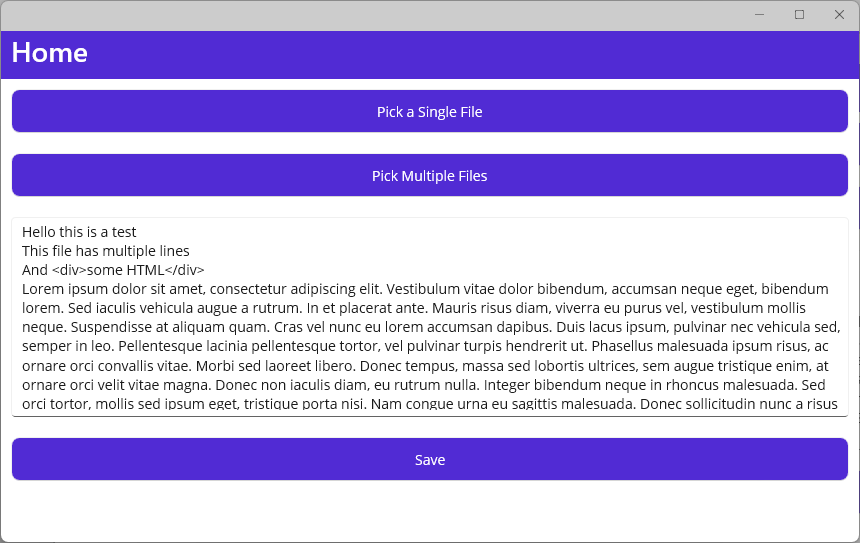
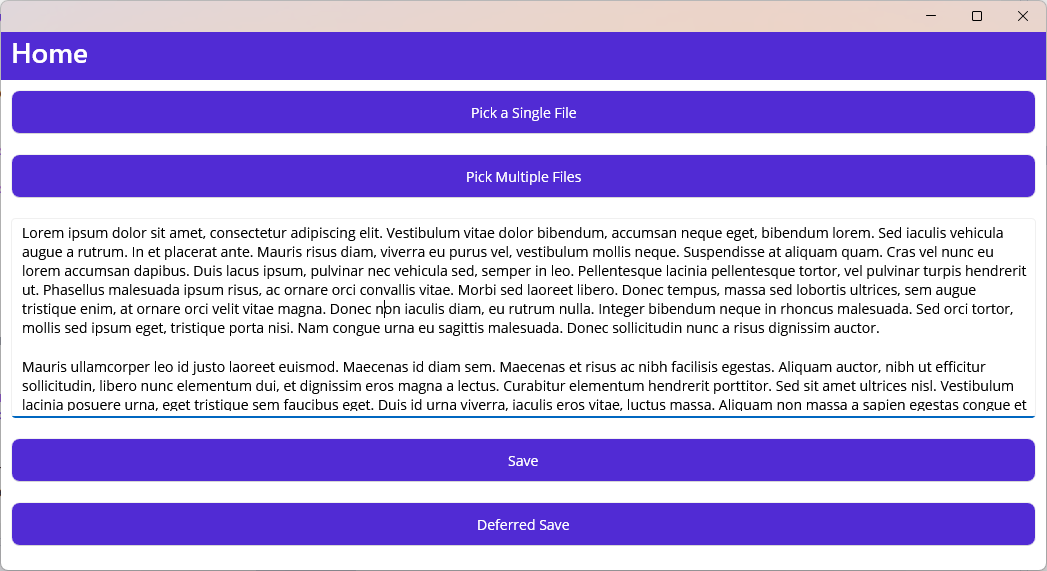
Added DeferredSaveFileOptions option.

diff --git a/LukeMauiFilePicker.Demo/MainPage.xaml b/LukeMauiFilePicker.Demo/MainPage.xaml
@@ -10,6 +10,7 @@
         <Editor x:Name="TextEditor" HeightRequest="200" Margin="10" />
 
         <Button Text="Save" Clicked="Save" Margin="10" />
+        <Button Text="Deferred Save" Clicked="DeferredSave" Margin="10" />
     </VerticalStackLayout>
 
 </ContentPage>

diff --git a/LukeMauiFilePicker/FilePickerService.Android.cs b/LukeMauiFilePicker/FilePickerService.Android.cs
@@ -12,20 +12,37 @@ partial class FilePickerService
     public partial async Task<IEnumerable<IPickFile>?> PickFilesAsync(string title, Dictionary<DevicePlatform, IEnumerable<string>>? types, bool multiple)
         => await DefaultPickFilesAsync(title, types, multiple);
 
-    public partial async Task<bool> SaveFileAsync(SaveFileOptions options)
+    static async Task<Stream?> GetSaveStreamAsync(BaseSaveFileOptions o)
     {
         var activity = await Platform.WaitForActivityAsync();
         var uri = await CreateDocumentService.Instance
-            .RequestSaveFileAsync(options, activity);
-        if (uri is null) { return false; }
-                
+            .RequestSaveFileAsync(o, activity);
+        if (uri is null) { return null; }
+
         ArgumentNullException.ThrowIfNull(activity?.ContentResolver);
 
-        using var outStream = activity.ContentResolver.OpenOutputStream(uri);
+        var outStream = activity.ContentResolver.OpenOutputStream(uri);
         ArgumentNullException.ThrowIfNull(outStream);
 
-        await options.Content.CopyToAsync(outStream);
+        return outStream;
+    }
 
+    public partial async Task<bool> SaveFileAsync(SaveFileOptions options)
+    {
+        await using var outStream = await GetSaveStreamAsync(options);
+        if (outStream is null) { return false; }
+
+        await options.Content.CopyToAsync(outStream);
+        return true;
+    }
+
+    public partial async Task<bool> SaveFileAsync(DeferredSaveFileOptions options)
+    {
+        using var outStream = await GetSaveStreamAsync(options);
+        if (outStream is null) { return false; }
+
+        var content = await options.GetContentAsync();        
+        await content.CopyToAsync(outStream);
         return true;
     }
 

diff --git a/LukeMauiFilePicker/FilePickerModels.cs b/LukeMauiFilePicker/FilePickerModels.cs
@@ -10,17 +10,34 @@ public interface IPickFile
 
 }
 
-public class SaveFileOptions
+public class BaseSaveFileOptions(string suggestedFileName)
+{
+    public string SuggestedFileName { get; init; } = suggestedFileName;
+    public (string FileTypeName, List<string> FileTypeExts) WindowsFileTypes { get; init; } = ("All Files", ["*.*"]);
+    public string AndroidMimeType { get; init; } = "application/octet-stream";
+}
+
+public class SaveFileOptions(string suggestedFileName, Stream content) : BaseSaveFileOptions(suggestedFileName)
 {
 
-    public string SuggestedFileName { get; init; }
-    public Stream Content { get; init; }
-    public (string FileTypeName, List<string> FileTypeExts) WindowsFileTypes { get; init; } = ("All Files", new() { "*.*" });
-    public string AndroidMimeType { get; init; } = "application/octet-stream";
+    public Stream Content { get; init; } = content;
+}
 
-    public SaveFileOptions(string fileName, Stream content)
+public class DeferredSaveFileOptions : BaseSaveFileOptions
+{
+    private readonly Func<Task<Stream>> _getStreamAsync;
+
+    public DeferredSaveFileOptions(string suggestedFileName, Func<Stream> getStream)
+        : base(suggestedFileName)
     {
-        SuggestedFileName = fileName;
-        Content = content;
+        _getStreamAsync = () => Task.FromResult(getStream());
     }
+
+    public DeferredSaveFileOptions(string suggestedFileName, Func<Task<Stream>> getStreamAsync)
+        : base(suggestedFileName)
+    {
+        _getStreamAsync = getStreamAsync;
+    }
+
+    public Task<Stream> GetContentAsync() => _getStreamAsync();
 }

diff --git a/LukeMauiFilePicker.Demo/MainPage.xaml.cs b/LukeMauiFilePicker.Demo/MainPage.xaml.cs
@@ -62,19 +62,41 @@ public partial class MainPage : ContentPage
         await OnFilesPickedAsync(files);
     }
 
-    private async void Save(object sender, EventArgs e)
+    MemoryStream GetContentStream()
     {
         var bytes = Encoding.UTF8.GetBytes(TextEditor.Text ?? "");
-        using var memory = new MemoryStream(bytes);
+        return new MemoryStream(bytes);
+    }
 
-        var result = await picker.SaveFileAsync(new("text.txt", memory)
+    private async void Save(object sender, EventArgs e)
+    {
+        using var memory = GetContentStream();
+
+        var result = await picker.SaveFileAsync(new SaveFileOptions("text.txt", memory)
         {
             AndroidMimeType = "text/plain",
-            WindowsFileTypes = ("Text files", new() { ".txt", })
+            WindowsFileTypes = ("Text files", [".txt",])
         });
 
         await DisplayAlert("File Saved", result ? "File saved successfully." : "File save cancelled.", "OK");
     }
 
+    private async void DeferredSave(object sender, EventArgs e)
+    {
+        // Simulate generating content
+        async Task<Stream> streamFn()
+        {
+            await Task.Delay(2000);
+            return GetContentStream();
+        }
+
+        var result = await picker.SaveFileAsync(new DeferredSaveFileOptions("deferred.txt", streamFn)
+        {
+            AndroidMimeType = "text/plain",
+            WindowsFileTypes = ("Text files", [".txt",])
+        });
+
+        await DisplayAlert("File Saved", result ? "File saved successfully." : "File save cancelled.", "OK");
+    }
 }
 

diff --git a/LukeMauiFilePicker/FilePickerService.Windows.cs b/LukeMauiFilePicker/FilePickerService.Windows.cs
@@ -5,22 +5,37 @@ namespace LukeMauiFilePicker;
 
 partial class FilePickerService
 {
-    
+
     public partial async Task<IEnumerable<IPickFile>?> PickFilesAsync(string title, Dictionary<DevicePlatform, IEnumerable<string>>? types, bool multiple)
         => await DefaultPickFilesAsync(title, types, multiple);
 
-    public partial async Task<bool> SaveFileAsync(SaveFileOptions options)
+    static async Task<StorageFile?> GetSaveStorageFileAsync(BaseSaveFileOptions options)
     {
         var picker = CreatePicker();
-        if (picker is null) { return false; }
+        if (picker is null) { return null; }
 
         picker.FileTypeChoices.Add(options.WindowsFileTypes.FileTypeName, options.WindowsFileTypes.FileTypeExts);
         picker.SuggestedFileName = options.SuggestedFileName;
 
         var file = await picker.PickSaveFileAsync();
+        return file;
+    }
+
+    public partial async Task<bool> SaveFileAsync(SaveFileOptions options)
+    {
+        var file = await GetSaveStorageFileAsync(options);
         if (file is null) { return false; }
 
         return await WriteToFileAsync(file, options.Content);
+    }
+
+    public partial async Task<bool> SaveFileAsync(DeferredSaveFileOptions options)
+    {
+        var file = await GetSaveStorageFileAsync(options);
+        if (file is null) { return false; }
+
+        await using var content = await options.GetContentAsync();
+        return await WriteToFileAsync(file, content);
     }
 
     static async Task<bool> WriteToFileAsync(IStorageFile file, Stream content)

diff --git a/LukeMauiFilePicker/FilePickerService.MaciOS.cs b/LukeMauiFilePicker/FilePickerService.MaciOS.cs
@@ -1,4 +1,5 @@
 using Foundation;
+using ObjCRuntime;
 using UIKit;
 using UniformTypeIdentifiers;
 
@@ -58,16 +59,16 @@ partial class FilePickerService
         return await filesTcs.Task;
     }
 
-    public partial async Task<bool> SaveFileAsync(SaveFileOptions options)
+    static async Task<bool> SaveFileAsync(BaseSaveFileOptions options, Stream stream)
     {
         var path = Path.Combine(FileSystem.CacheDirectory, options.SuggestedFileName);
         using (var file = File.Create(path))
         {
-            await options.Content.CopyToAsync(file);
+            await stream.CopyToAsync(file);
         }
         var url = new NSUrl(path, false);
 
-        var picker = new UIDocumentPickerViewController(new[] { url });
+        var picker = new UIDocumentPickerViewController([url]);
         TaskCompletionSource<bool> filesTcs = new();
 
         picker.WasCancelled += (_, e) =>
@@ -85,6 +86,17 @@ partial class FilePickerService
         await controller.PresentViewControllerAsync(picker, true);
 
         return await filesTcs.Task;
+    }
+
+    public partial async Task<bool> SaveFileAsync(SaveFileOptions options)
+    {
+        return await SaveFileAsync(options, options.Content);
+    }
+
+    public partial async Task<bool> SaveFileAsync(DeferredSaveFileOptions options)
+    {
+        await using var stream = await options.GetContentAsync();
+        return await SaveFileAsync(options, stream);
     }
 
     class IosFile : IPickFile

diff --git a/LukeMauiFilePicker/FilePickerService.cs b/LukeMauiFilePicker/FilePickerService.cs
@@ -5,6 +5,7 @@ public interface IFilePickerService
     Task<IPickFile?> PickFileAsync(string title, Dictionary<DevicePlatform, IEnumerable<string>>? types);
     Task<IEnumerable<IPickFile>?> PickFilesAsync(string title, Dictionary<DevicePlatform, IEnumerable<string>>? types, bool multiple);
     Task<bool> SaveFileAsync(SaveFileOptions options);
+    Task<bool> SaveFileAsync(DeferredSaveFileOptions options);
 }
 
 
@@ -20,6 +21,7 @@ public partial class FilePickerService : IFilePickerService
     }
     public partial Task<IEnumerable<IPickFile>?> PickFilesAsync(string title, Dictionary<DevicePlatform, IEnumerable<string>>? types, bool multiple);
     public partial Task<bool> SaveFileAsync(SaveFileOptions options);
+    public partial Task<bool> SaveFileAsync(DeferredSaveFileOptions options);
 
     static async Task<IEnumerable<IPickFile>?> DefaultPickFilesAsync(string title, Dictionary<DevicePlatform, IEnumerable<string>>? types, bool multiple)
     {
@@ -51,15 +53,8 @@ public partial class FilePickerService : IFilePickerService
             .ToList();
     }
     
-    class DefaultPickFile : IPickFile
+    class DefaultPickFile(FileResult file) : IPickFile
     {
-
-        readonly FileResult file;
-        public DefaultPickFile(FileResult file)
-        {
-            this.file = file;
-        }
-
         public string FileName => file.FileName;
 
         public FileResult? FileResult => file;

diff --git a/LukeMauiFilePicker/CreateDocumentService.Android.cs b/LukeMauiFilePicker/CreateDocumentService.Android.cs
@@ -15,7 +15,7 @@ internal class CreateDocumentService
 
     TaskCompletionSource<Uri?>? tcs;
 
-    public async Task<Uri?> RequestSaveFileAsync(SaveFileOptions o, Activity? activity)
+    public async Task<Uri?> RequestSaveFileAsync(BaseSaveFileOptions o, Activity? activity)
     {
         if (!RegisteredForActivityResult)
         {
@@ -50,7 +50,7 @@ internal class CreateDocumentService
         tcs = null;
     }
 
-    Intent GetIntent(SaveFileOptions o)
+    Intent GetIntent(BaseSaveFileOptions o)
     {
         var i = new Intent(Intent.ActionCreateDocument);
         i.AddCategory(Intent.CategoryOpenable);

diff --git a/README.md b/README.md
@@ -8,6 +8,13 @@ This article uses Windows screenshots. To see screenshots for other platforms, s
 
 Was it helpful for you? Please consider a donation ❤ [PayPal](https://paypal.me/datvm).
 
+# Change Log
+
+## v1.2.0
+
+- Fixed `SaveFileAsync` not returning when user cancels the save operation on iOS and Mac Catalyst.
+- Added `DeferredSaveFileOptions` to allow deferring the content creation until after the user picks a file. Only work for Windows and Android. See documentation for more details.
+
 # Installation & Setup
 
 ## Nuget Package
@@ -106,22 +113,23 @@ The `IPickFile` interface lets you know the `FileName` and openning a `Stream` t
 
 ```cs
 Task<bool> SaveFileAsync(SaveFileOptions options);
+Task<bool> SaveFileAsync(DeferredSaveFileOptions options);
 ```
 
-Save a file. The `SaveFileOptions` contains the following properties:
+Save a file. The `SaveFileOptions` and `DeferredSaveFileOptions` contains the following properties:
 
 - `string SuggestedFileName` (**Required**): The suggested file name.
-
-- `Stream Content` (**Required**): The content to write to. Note that this is required before user even pick a file because for iOS and Mac, it needs to be available before user picks a file.
-
+- `Stream Content` for `SaveFileOptions` (**Required**): The content to write to. Note that this is required before user even pick a file because for iOS and Mac, it needs to be available before user picks a file.
+- `Func<Stream>` or `Func<Task<Stream>> Content` for `DeferredSaveFileOptions`: A function that returns a stream to write to. This is useful when you want to defer the content creation until after the user picks a file. The function is not called if user cancels the save operation. **Note:** on iOS and Mac Catalyst, this function simply redirects to `SaveFileOptions.Content` since the content needs to be available before user picks a file.
 - `(string FileTypeName, List<string> FileTypeExts) WindowsFileTypes`: Windows-specific file types. The `FileTypeName` is the name of the file type (can be any descriptive text), and `FileTypeExts` is a list of file extensions. If you do not specify this, the default is `All Files (*.*)`.
 
 - `string AndroidMimeType`: Android-specific MIME type. If you do not specify this, the default is `application/octet-stream`.
 
 The method returns `bool` to indicate if the user successfully picked a file and saved the content.
 
-> **Note**  
-> There is no specific iOS and Mac Catalyst option but this feature works for them.
+> **NOTE**  
+> There is no specific iOS and Mac Catalyst option.  
+> `DeferredSaveFileOptions` acts just like `SaveFileOptions` on iOS and Mac Catalyst since the content needs to be available before user picks a file.
 
 ![Windows Save File Picker](./imgs/win-save.png)
 
@@ -143,58 +151,4 @@ await picker.SaveFileAsync(new("text.txt", memory)
 
 # Screenshots on all platforms
 
-## App UI
-
-![Windows App](./imgs/win-app.png)
-Windows App
-
-![Android App](./imgs/and-ui.png)
-Android App
-
-![iOS App](./imgs/ios-ui.png)
-iOS App
-
-![Mac Catalyst App](./imgs/mac-ui.png)
-Mac Catalyst App
-
-## Open File Picker - Single File
-
-![Windows Open File Picker](./imgs/win-pick-single.png)
-Windows Open Single File Picker
-
-![Android Open File Picker](./imgs/and-pick-single.png)
-Android Open Single File Picker
-
-![iOS Open File Picker](./imgs/ios-pick-single.png)
-iOS Open Single File Picker
-
-![Mac Catalyst Open File Picker](./imgs/mac-pick-single.png)
-Mac Catalyst Open Single File Picker
-
-## Open File Picker - Multiple Files
-
-![Windows Open File Picker](./imgs/win-pick-multi.png)
-Windows Open Multiple Files Picker
-
-![Android Open File Picker](./imgs/and-pick-multi.png)
-Android Open Multiple Files Picker
-
-![iOS Open File Picker](./imgs/ios-pick-multi.png)
-iOS Open Multiple Files Picker
-
-![Mac Catalyst Open File Picker](./imgs/mac-pick-multi.png)
-Mac Catalyst Open Multiple Files Picker
-
-## Save File Picker
-
-![Windows Save File Picker](./imgs/win-save.png)
-Windows Save File Picker
-
-![Android Save File Picker](./imgs/and-save.png)
-Android Save File Picker
-
-![iOS Save File Picker](./imgs/ios-save.png)
-iOS Save File Picker
-
-![Mac Catalyst Save File Picker](./imgs/mac-save.png)
-Mac Catalyst Save File Picker
+See [the imgs folder](./imgs).
